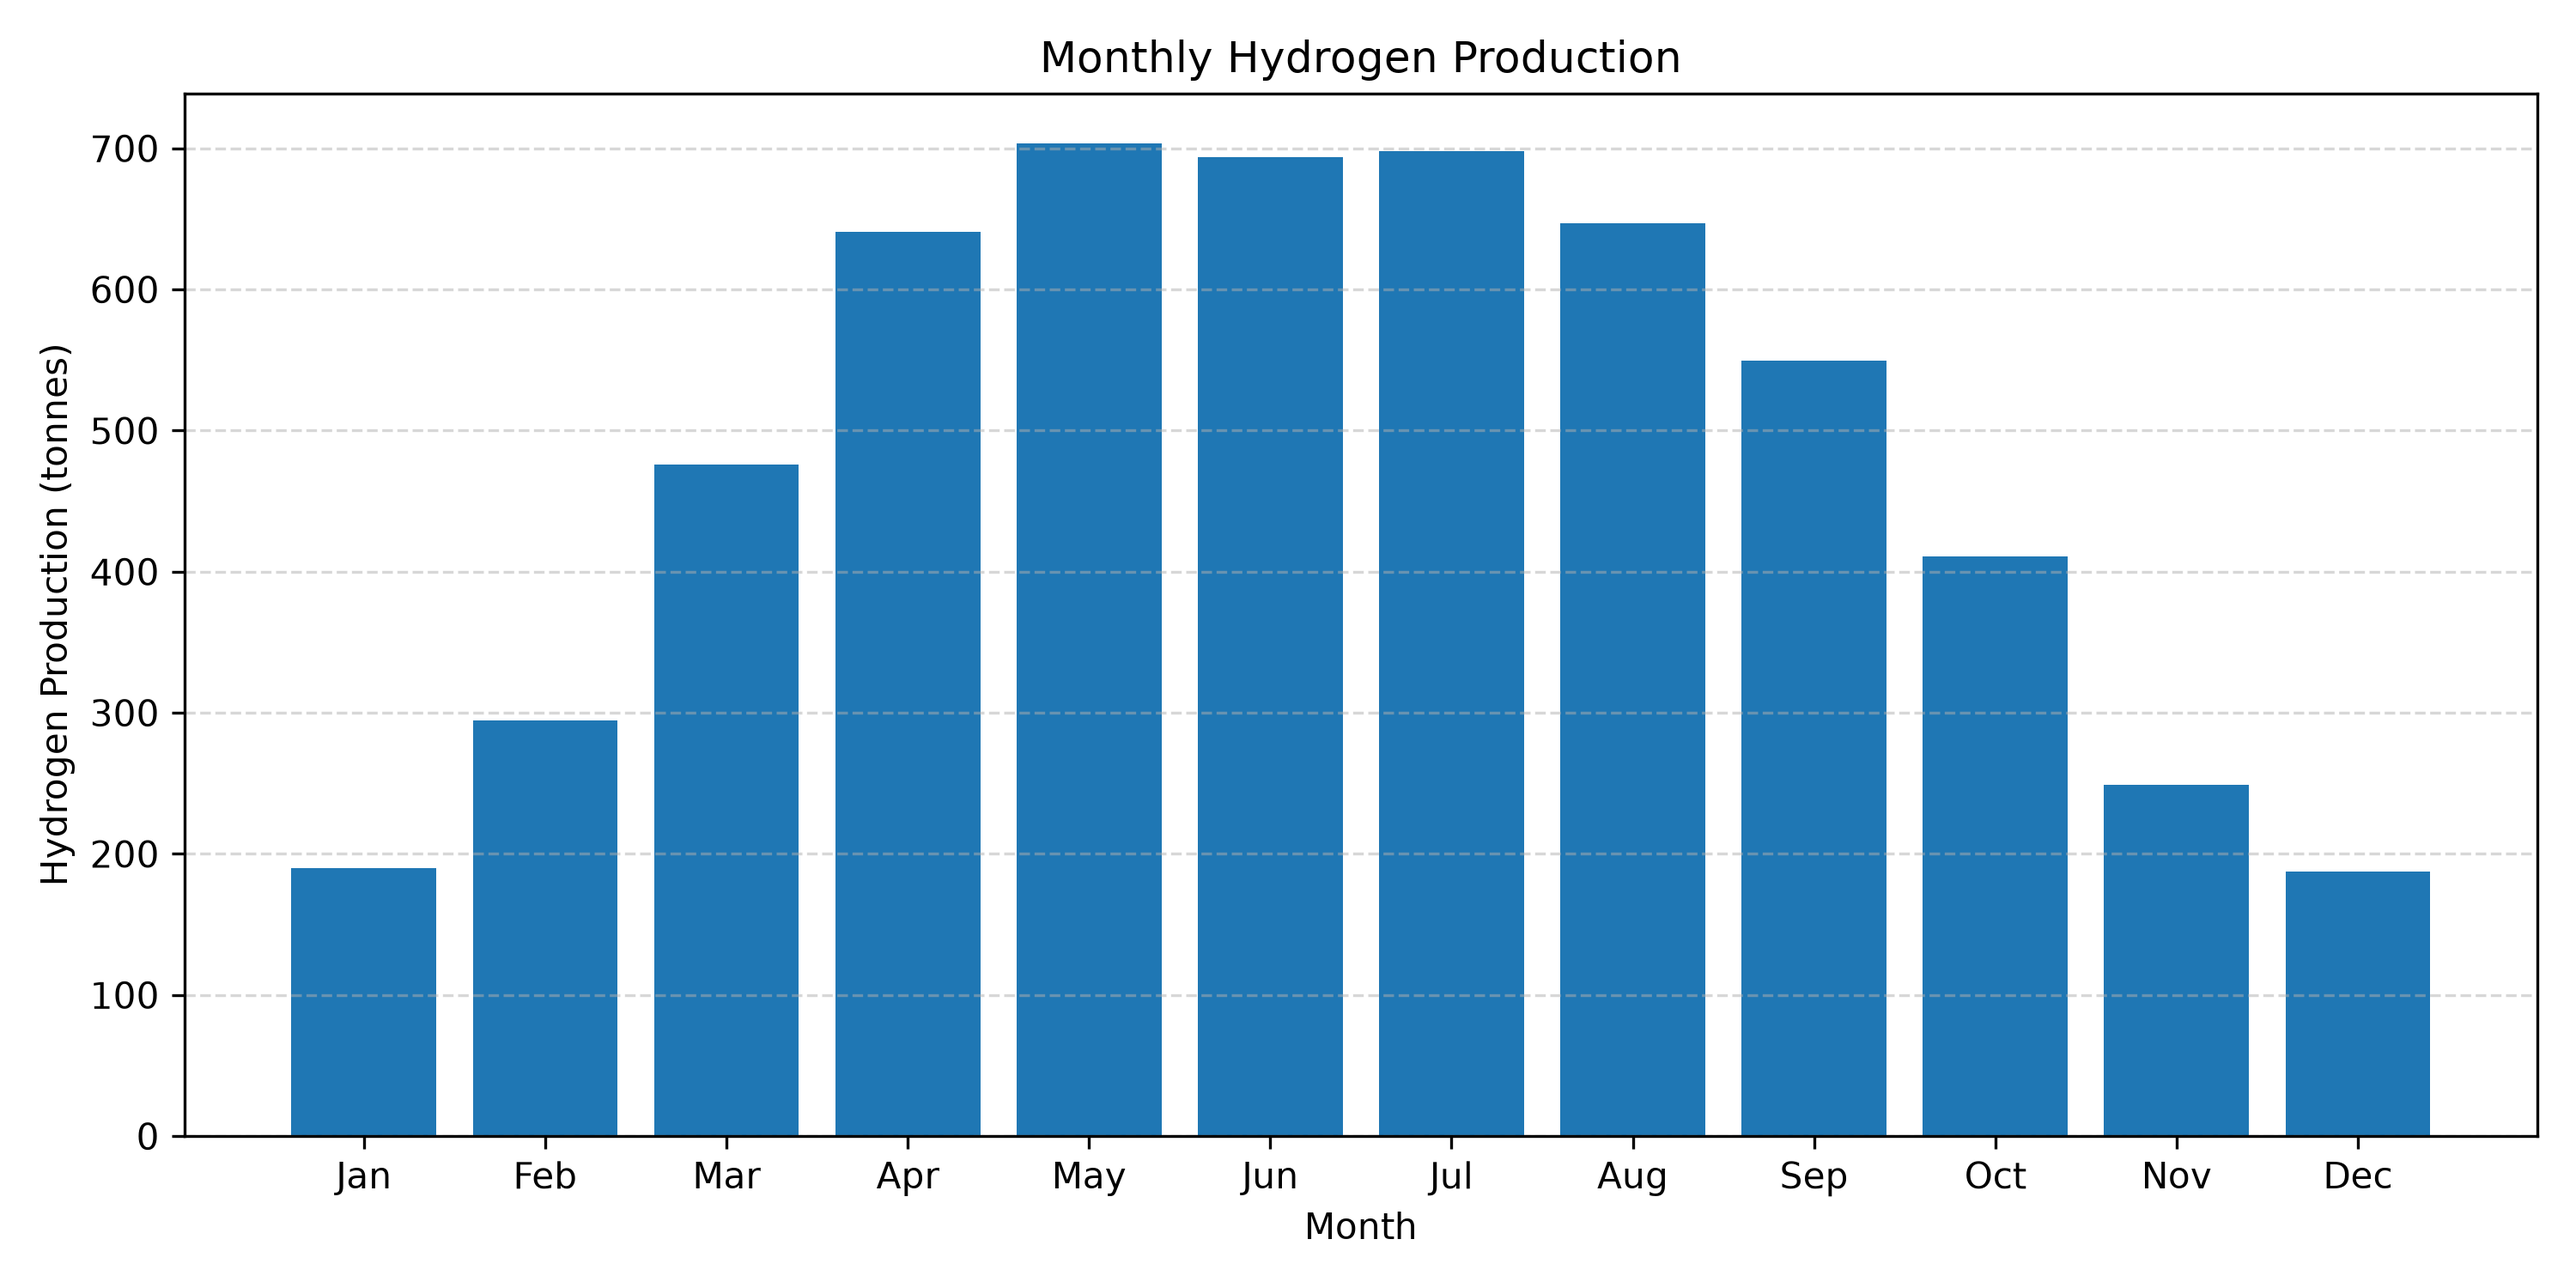
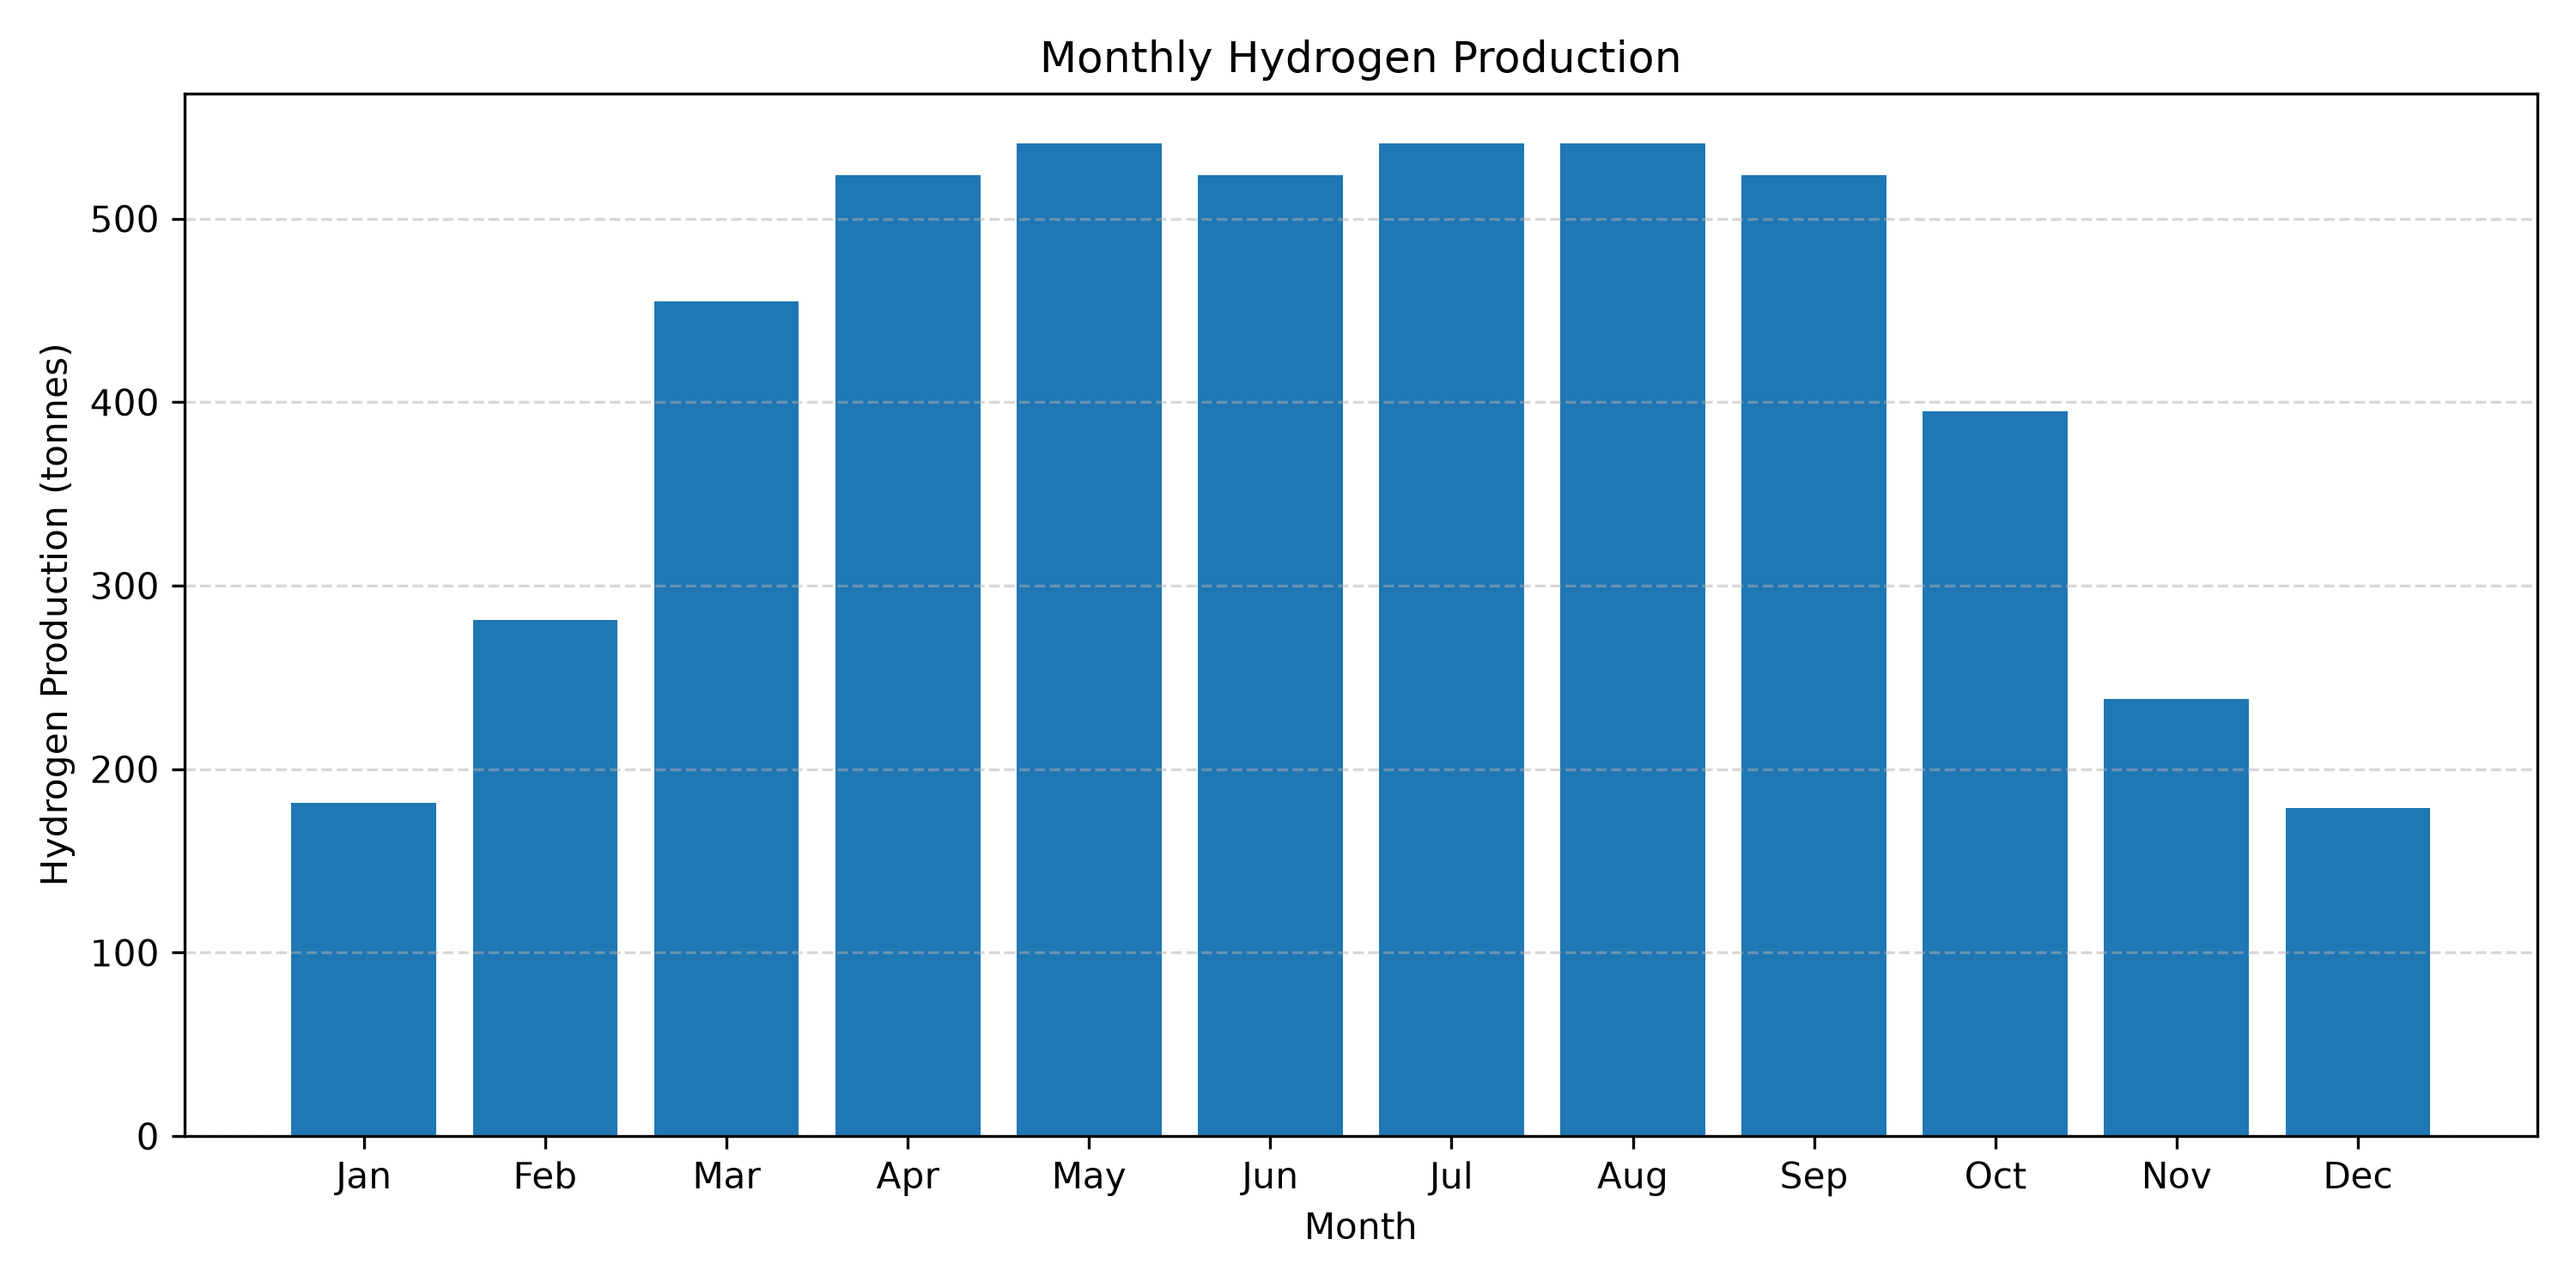
Improve Streamlit dashboard and update project documentation

diff --git a/simulation/engine.py b/simulation/engine.py
@@ -1,0 +1,65 @@
+import pandas as pd
+import numpy as np
+
+from models.battery import Battery
+from models.electrolyzer import Electrolyzer
+from models.solar import SolarPlant
+from simulation.simulation import DigitalTwin
+
+
+def run_simulation(
+    pv_capacity=300,
+    battery_capacity=120000,
+    electrolyzer_power=40000,
+    specific_energy=55
+):
+    """
+    Runs the GH2 Digital Twin simulation.
+    """
+    # Load monthly irradiation dataset
+    df = pd.read_csv("data/monthly_irradiation.csv")
+
+    # Convert PV production from GWh to kWh
+    base_pv_capacity = 300  # MW (cas de référence)
+
+
+scaled_energy = (
+    df["PVGIS_GWh"]
+    * (pv_capacity / base_pv_capacity)
+    * 1_000_000
+)
+
+solar = SolarPlant(scaled_energy)
+
+# Create system components
+battery = Battery(capacity_kwh=battery_capacity)
+
+electrolyzer = Electrolyzer(
+    specific_energy=specific_energy,
+    rated_power_kw=electrolyzer_power
+)
+
+# Run Digital Twin simulation
+digital_twin = DigitalTwin(solar, battery, electrolyzer)
+
+hydrogen_kg = digital_twin.run()
+
+# Store results
+df["Hydrogen_kg"] = hydrogen_kg
+# Statistics
+annual_h2 = np.sum(df["Hydrogen_kg"])
+average_h2 = np.mean(df["Hydrogen_kg"])
+maximum_h2 = np.max(df["Hydrogen_kg"])
+minimum_h2 = np.min(df["Hydrogen_kg"])
+
+# Return results
+return {
+    "annual_h2": annual_h2,
+    "average_h2": average_h2,
+    "maximum_h2": maximum_h2,
+    "minimum_h2": minimum_h2,
+    "annual_energy": solar.annual_energy(),
+    "monthly_h2": df["Hydrogen_kg"],
+    "months": df["Month"],
+    "dataframe": df,
+}

diff --git a/app.py b/app.py
@@ -1,0 +1,72 @@
+import streamlit as st
+from simulation.engine import run_simulation
+import plotly.express as px
+st.set_page_config(
+    page_title="GH2 Digital Twin",
+    page_icon="⚡",
+    layout="wide"
+)
+
+st.title("⚡ GH2 Digital Twin")
+st.markdown("---")
+st.header("Simulation Parameters")
+
+pv = st.slider("PV Capacity (MW)", 50, 500, 300)
+
+electrolyzer = st.slider("Electrolyzer (MW)", 10, 100, 40)
+
+battery = st.slider("Battery (MWh)", 10, 300, 120)
+
+results = run_simulation(
+    pv_capacity=pv,
+    battery_capacity=battery * 1000,      # MWh → kWh
+    electrolyzer_power=electrolyzer * 1000  # MW → kW
+)
+col1, col2, col3, col4 = st.columns(4)
+
+col1.metric(
+    "Annual H₂",
+    f"{results['annual_h2']/1000:.1f} t"
+)
+
+col2.metric(
+    "PV Energy",
+    f"{results['annual_energy']/1_000_000:.1f} GWh"
+)
+
+col3.metric(
+    "Electrolyzer",
+    f"{electrolyzer} MW"
+)
+
+col4.metric(
+    "Battery",
+    f"{battery} MWh"
+)
+st.markdown("---")
+
+fig = px.bar(
+    results["dataframe"],
+    x="Month",
+    y="Hydrogen_kg",
+    title="Monthly Hydrogen Production"
+)
+
+st.plotly_chart(fig, use_container_width=True)
+# ==========================
+# Table of results
+# ==========================
+st.markdown("---")
+st.subheader("Simulation Results")
+
+st.dataframe(results["dataframe"])
+
+# ==========================
+# Download the results
+# ==========================
+st.download_button(
+    "📥 Download CSV",
+    results["dataframe"].to_csv(index=False),
+    file_name="GH2_results.csv",
+    mime="text/csv"
+)

diff --git a/main.py b/main.py
@@ -1,7 +1,11 @@
 import pandas as pd
 import numpy as np
 import matplotlib.pyplot as plt
+from models.battery import Battery
+from models.electrolyzer import Electrolyzer
 from models.solar import SolarPlant
+from simulation.simulation import DigitalTwin
+from simulation.engine import run_simulation
 print("=" * 50)
 print("GREEN HYDROGEN DIGITAL TWIN")
 print("=" * 50)
@@ -23,10 +27,18 @@ print(df)
 specific_energy = 55      # kWh per kg H2
 
 # Convert PV energy from GWh to kWh
-pv_energy_kWh = df["PVGIS_GWh"] * 1_000_000
+solar = SolarPlant(df["PVGIS_GWh"] * 1_000_000)
 
-# Calculate hydrogen production
-hydrogen_kg = pv_energy_kWh / specific_energy
+battery = Battery(capacity_kwh=120_000)
+
+electrolyzer = Electrolyzer(
+    specific_energy=specific_energy,
+    rated_power_kw=40_000
+)
+
+digital_twin = DigitalTwin(solar, battery, electrolyzer)
+
+hydrogen_kg = digital_twin.run()
 
 # Add results to the DataFrame
 df["Hydrogen_kg"] = hydrogen_kg
@@ -77,3 +89,21 @@ plt.tight_layout()
 plt.savefig("results/hydrogen_production.png", dpi=300)
 
 plt.show()
+battery = Battery(capacity_kwh=120000)
+
+print("\nBattery Test")
+print("----------------")
+
+battery.charge(50000)
+print("SOC =", battery.get_soc())
+
+battery.charge(90000)
+print("SOC =", battery.get_soc())
+
+battery.discharge(30000)
+print("SOC =", battery.get_soc())
+print("\n===== ENGINE TEST =====")
+
+results = run_simulation()
+
+print(results)

diff --git a/simulation/simulation.py b/simulation/simulation.py
@@ -1,0 +1,39 @@
+from models.solar import SolarPlant
+from models.battery import Battery
+from models.electrolyzer import Electrolyzer
+
+
+class DigitalTwin:
+
+    def __init__(self, solar, battery, electrolyzer):
+        self.solar = solar
+        self.battery = battery
+        self.electrolyzer = electrolyzer
+
+    def run(self, hours_per_month=None):
+        """
+        PV feeds the electrolyzer directly.
+        The battery only buffers surplus / covers deficit.
+        """
+        if hours_per_month is None:
+            hours_per_month = [744, 672, 744, 720, 744, 720,
+                               744, 744, 720, 744, 720, 744]
+
+        hydrogen = []
+
+        for energy, hours in zip(self.solar.monthly_energy_output(), hours_per_month):
+
+            capacity = self.electrolyzer.max_energy_intake(hours)
+
+            to_stack = min(energy, capacity)     # direct PV -> electrolyzer
+            surplus = energy - to_stack         # PV the stack cannot absorb
+            deficit = capacity - to_stack       # stack headroom PV did not fill
+
+            if surplus > 0:
+                self.battery.charge(surplus)
+            elif deficit > 0:
+                to_stack += self.battery.discharge(deficit)
+
+            hydrogen.append(self.electrolyzer.produce_hydrogen(to_stack))
+
+        return hydrogen

diff --git a/models/solar.py b/models/solar.py
@@ -1,3 +1,10 @@
+from data.parameters import (
+    INVERTER_EFFICIENCY,
+    CABLE_EFFICIENCY,
+    PV_DEGRADATION
+)
+
+
 class SolarPlant:
     """
     Solar PV plant model.
@@ -7,7 +14,23 @@ class SolarPlant:
         self.monthly_energy = monthly_energy
 
     def annual_energy(self):
-        return self.monthly_energy.sum()
+        annual_energy = self.monthly_energy.sum()
+
+        usable_energy = (
+            annual_energy
+            * INVERTER_EFFICIENCY
+            * CABLE_EFFICIENCY
+            * PV_DEGRADATION
+        )
+
+        return usable_energy
 
     def monthly_energy_output(self):
-        return self.monthly_energy
+        usable_monthly_energy = (
+            self.monthly_energy
+            * INVERTER_EFFICIENCY
+            * CABLE_EFFICIENCY
+            * PV_DEGRADATION
+        )
+
+        return usable_monthly_energy

diff --git a/models/battery.py b/models/battery.py
@@ -1,0 +1,35 @@
+class Battery:
+    """
+    Battery Energy Storage System (BESS)
+    """
+
+    def __init__(self, capacity_kwh, efficiency=0.95):
+
+        self.capacity_kwh = capacity_kwh
+        self.efficiency = efficiency
+
+        # State of Charge
+        self.soc = 0
+
+    def charge(self, energy_kwh):
+
+        stored = min(
+            energy_kwh * self.efficiency,
+            self.capacity_kwh - self.soc
+        )
+
+        self.soc += stored
+
+        return stored
+
+    def discharge(self, demand_kwh):
+
+        available = min(demand_kwh, self.soc)
+
+        self.soc -= available
+
+        return available
+
+    def get_soc(self):
+
+        return self.soc

diff --git a/models/electrolyzer.py b/models/electrolyzer.py
@@ -1,0 +1,12 @@
+class Electrolyzer:
+    def __init__(self, specific_energy, rated_power_kw=None):
+        self.specific_energy = specific_energy
+        self.rated_power_kw = rated_power_kw
+
+    def max_energy_intake(self, hours):
+        if self.rated_power_kw is None:
+            return float("inf")
+        return self.rated_power_kw * hours
+
+    def produce_hydrogen(self, energy_kwh):
+        return energy_kwh / self.specific_energy

diff --git a/data/parameters.py b/data/parameters.py
@@ -1,0 +1,8 @@
+# PV losses
+INVERTER_EFFICIENCY = 0.98
+CABLE_EFFICIENCY = 0.98
+PV_DEGRADATION = 0.995
+
+# Battery
+BATTERY_CHARGE_EFFICIENCY = 0.95
+BATTERY_DISCHARGE_EFFICIENCY = 0.95
